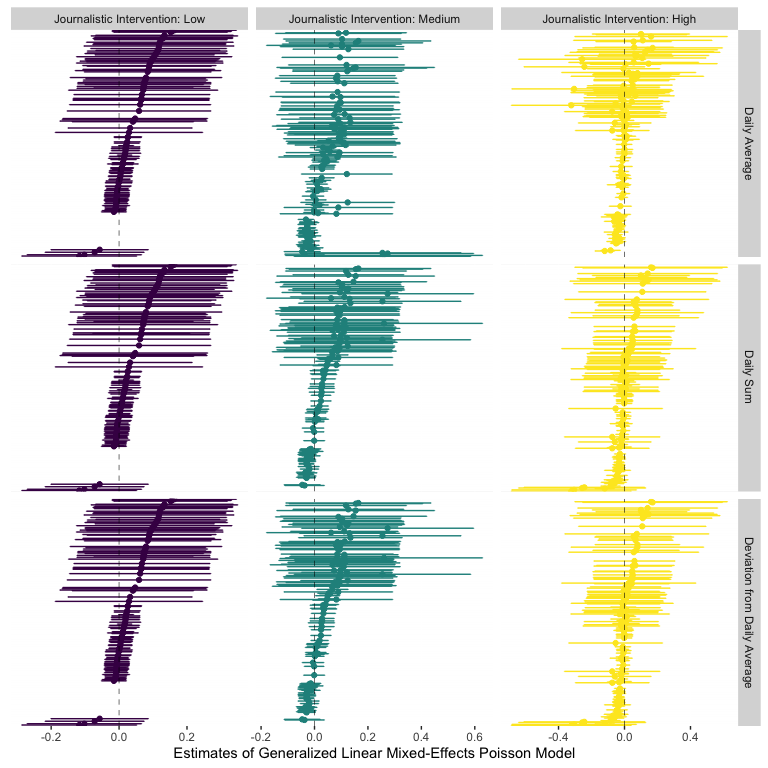
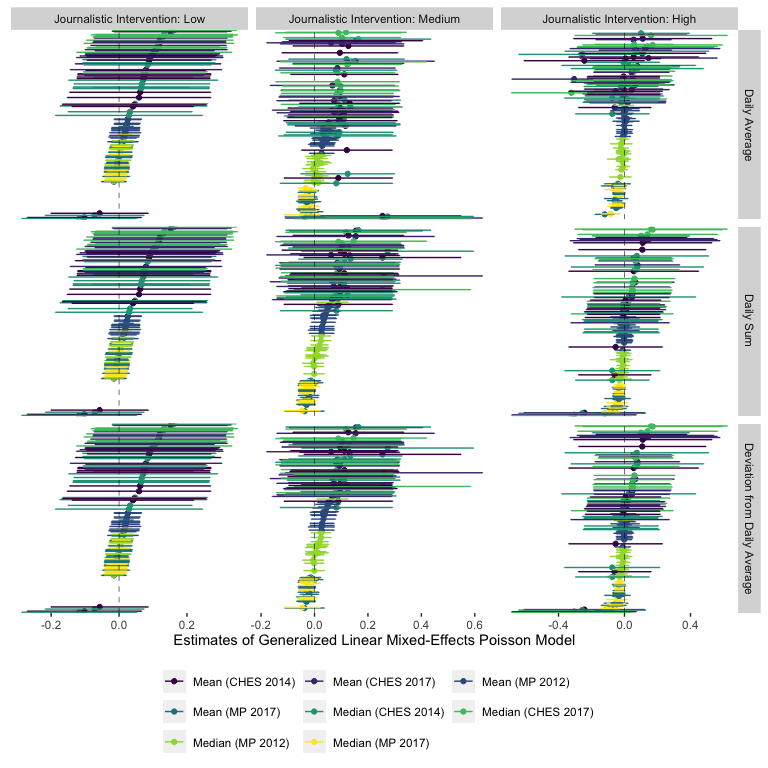
change ficolor of estimates in figures

diff --git a/src/analysis/analysis.md b/src/analysis/analysis.md
@@ -22,7 +22,7 @@ Analyses
 
 ``` r
 rm(list=ls())
-source(here::here("src/lib/functions.R"))
+source(here("src/lib/functions.R"))
 ```
 
 # Analyses
@@ -98,7 +98,7 @@ h2 %>%
   ggplot(aes(y = reorder(id2, estimate),
              x = estimate,
              group = subsets,
-             colour = subsets,
+             colour = x,
              xmin = conf.low,
              xmax = conf.high)) +
   geom_point() + geom_errorbar() +
@@ -111,11 +111,11 @@ h2 %>%
         axis.title.y=element_blank(),
         axis.text.y=element_blank(),
         axis.ticks.y=element_blank(),
-        legend.position="none",
+        legend.position="bottom",
         legend.title = element_blank()) +
   scale_color_viridis_d() +
   geom_vline(xintercept = 0, size = .2, linetype = "dashed") +
-  guides(color=guide_legend(nrow=1,byrow=TRUE))
+  guides(color=guide_legend(nrow=3,byrow=TRUE))
 ```
 
 <img src="../../report/figures/h2-1.png" style="display: block; margin: auto;" />
@@ -128,7 +128,7 @@ h3 %>%
   ggplot(aes(y = reorder(id2, estimate),
              x = estimate,
              group = subsets,
-             colour = subsets,
+             colour = x,
              xmin = conf.low,
              xmax = conf.high)) +
   geom_point() + geom_errorbar() +
@@ -141,11 +141,11 @@ h3 %>%
         axis.title.y=element_blank(),
         axis.text.y=element_blank(),
         axis.ticks.y=element_blank(),
-        legend.position="none",
+        legend.position="bottom",
         legend.title = element_blank()) +
   scale_color_viridis_d() +
   geom_vline(xintercept = 0, size = .2, linetype = "dashed") +
-  guides(color=guide_legend(nrow=1,byrow=TRUE))
+  guides(color=guide_legend(nrow=3,byrow=TRUE))
 ```
 
 <img src="../../report/figures/h3-1.png" style="display: block; margin: auto;" />
@@ -158,7 +158,7 @@ h4 %>%
   ggplot(aes(y = reorder(id2, estimate),
              x = estimate,
              group = subsets,
-             colour = subsets,
+             colour = x,
              xmin = conf.low,
              xmax = conf.high)) +
   geom_point() + geom_errorbar() +
@@ -171,11 +171,11 @@ h4 %>%
         axis.title.y=element_blank(),
         axis.text.y=element_blank(),
         axis.ticks.y=element_blank(),
-        legend.position="none",
+        legend.position="bottom",
         legend.title = element_blank()) +
   scale_color_viridis_d() +
   geom_vline(xintercept = 0, size = .2, linetype = "dashed") +
-  guides(color=guide_legend(nrow=1,byrow=TRUE))
+  guides(color=guide_legend(nrow=2,byrow=TRUE))
 ```
 
 <img src="../../report/figures/h4-1.png" style="display: block; margin: auto;" />
